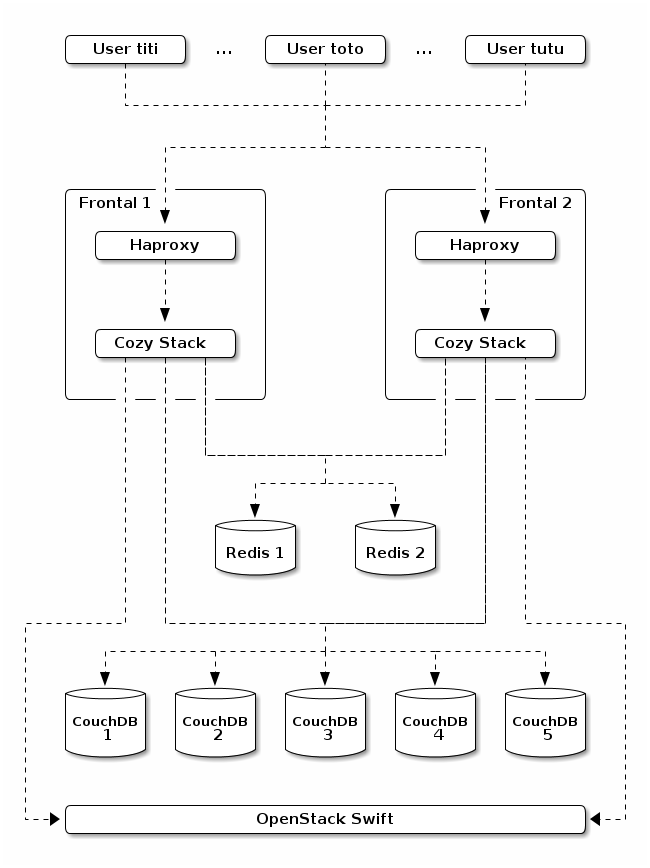
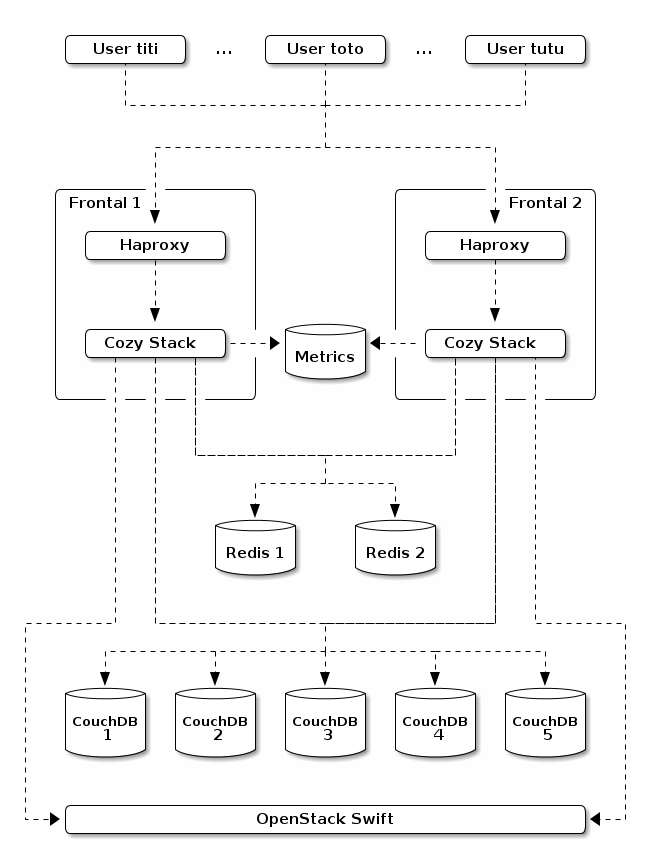
Add metrics

diff --git a/doc/architecture.md b/doc/architecture.md
@@ -110,6 +110,13 @@ that are no longer in the same database.
 
 We think that we can work on that and the pros will outweight the cons.
 
+### Metrics
+
+The Cozy Stack can generate some metrics about its usage (the size of the
+files transfered, the number of opened connexions, the number of requests to
+redis, etc.) and export them to a metrics backend. It will help identify the
+bottlenecks when scaling to add more users.
+
 
 Services
 --------
@@ -445,7 +452,6 @@ one instance to another, and so, it can be used as a backup.
 TODO
 ----
 
-- say a word on metrics
 - explain auth for users + apps + context
 - explain permissions
 - context for sharing a photos album
